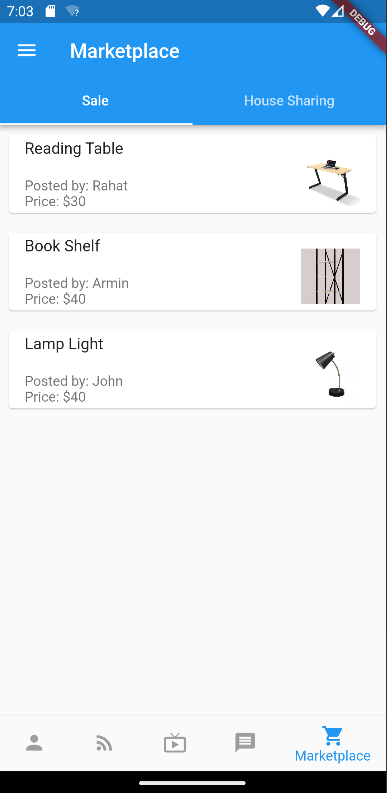
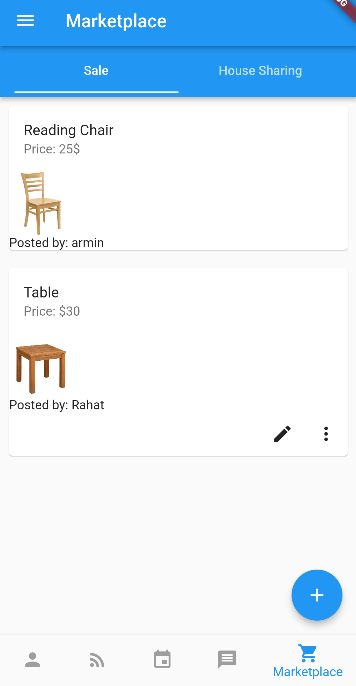
Mock_5_Done

diff --git a/index.html b/index.html
@@ -126,6 +126,7 @@
                 <li><a href="#motivation">Motivation</a></li>
                 <li><a href="#goals">Goals</a></li>
                 <li><a href="#usage">Usage</a></li>
+                <li><a href="#Firebase Intrigation">Firebase Intrigation</a></li>
                 <li><a href="#datamodel">DataModel</a></li>
                 <li><a href="#appstructure">App Strucutre</a></li>
                 <li><a href="#installation">Installation</a></li>
@@ -135,8 +136,8 @@
         </div>
         <div class="recent-updates">
             <h3>Recent Updates !!!</h3>
-            <h5>**Use emails from user_db to login.</h5>
-            <p><b><small> 10/30/2023: The App has been updated following the feature first structure for Flutter apps.</small></b></p>
+            <h5>Firebase intrigation Done!!!</h5>
+            <p><b><small> 11/18/2023: The app uses firebase as database now. Updates for Mock-up 5 has been completed.</small></b></p>
         </div>
     </div>
     <div class="main-content">
@@ -153,28 +154,39 @@
         <ul class="point-list">
             <li>
                 <p><b>Login Page</b></p>
-                <p>This page shows up at the start of the app and allows users to login into the app with their credentials.</p>
+                <p>This page shows up at the start of the app and allows users to login into the app with their credentials. It now uses Firebase for authentication.</p>
                 <img src="signin.png" alt="Image 1">
                 
             </li>
             <li>
-                <p><b>registration page</b></p>
-                <p>This page allows new users to create an account in the app so that they can get connected to their peers in the same courses and groups.</p>
-                <img src="registration.png" alt="Image 2" style="width: 287px; height: 562px;">
+                <p><b>Registration page</b></p>
+                <p>This page allows new users to create an account in the app so that they can get connected to their peers in the same courses and groups. Now all the data used to create an account is placed on Firebase. Email verification has not been added yet to ensure more testing before deployment.</p>
+                <img src="registrationpage.png" alt="Image 2" style="width: 287px; height: 562px;">
                 
             </li>
             <li>
                 <p><b>Profile Page</b></p>
-                <p>This page shows the profile of the user after login including Bio, Courses and Clubs</p>
+                <p>This page shows the profile of the user after login including Bio, Courses student is attending this semester and Clubs they are members of.</p>
                 <img src="Profile.png" alt="Image 2" style="width: 287px; height: 562px;">
                 
             </li>
             <li>
+                <p><b>Courses Description Page</b></p>
+                <p>Clicking on the courses in the profile page now takes student to course description were the description of the course is shown. It also shows the other students taking the course.</p>
+                <img src="CourseDescription.png" alt="Image 2" style="width: 287px; height: 562px;">
+                
+            </li>
+            <li>
+                <p><b>Groups Description Page</b></p>
+                <p>Clicking on the courses in the profile page now takes student to course description were the description of the Group is shown. It also shows the other students who are members of the group.</p>
+                <img src="GroupsDescription.png" alt="Image 2" style="width: 287px; height: 562px;">
+            </li>
+            <li>
                 <p><b>Feed page for Courses</b></p>
                 <p>This page shows feeds posted under courses including updates by instructor and other students.</p>
-                <img src="feed courses.png" alt="Image 2" style="width: 287px; height: 562px;">
+                <img src="Coursefeed.png" alt="Image 2" style="width: 287px; height: 562px;">
                 <p>Feed Posts can now be edited and new posts can be Added.</p>
-                <img src="Feed courses edit.png" alt="Image 2" style="width: 287px; height: 562px;">
+                <img src="Coursefeededit.png" alt="Image 2" style="width: 287px; height: 562px;">
                 <img src="feed edit.png" alt="Image 2" style="width: 287px; height: 562px;">
                 <img src="add feed.png" alt="Image 2" style="width: 287px; height: 562px;">
                 
@@ -191,10 +203,9 @@
             </li>
             <li>
                 <p><b>Marketplace page for Items</b></p>
-                <p>The marketplace page displays listing of items put to sale by different students</p>
+                <p>The marketplace page displays listing of items put to sale by different students.</p>
                 <img src="Marketplace.png" alt="Image 2" style="width: 287px; height: 562px;">
                 <p>Items up for sale in marketplace can now be edited and new items can be Added.</p>
-                <img src="marketplace edit.png" alt="Image 2" style="width: 287px; height: 562px;">
                 <img src="market edit.png" alt="Image 2" style="width: 287px; height: 562px;">
                 <img src="market add.png" alt="Image 2" style="width: 287px; height: 562px;">
                 
@@ -202,24 +213,37 @@
             <li>
                 <p><b>Housesharing</b></p>
                 <p>Housesharing allows students who want to share their rooms and house with other students for rent sharing the option to do so.</p>
-                <img src="House.png" alt="Image 2" style="width: 287px; height: 562px;">
+                <img src="housesharing.png" alt="Image 2" style="width: 287px; height: 562px;">
                 <p>Rooms up for ssharing can now be edited and new rooms can be Added.</p>
-                <img src="houseshare edit.png" alt="Image 2" style="width: 287px; height: 562px;">
                 <img src="house edit.png" alt="Image 2" style="width: 287px; height: 562px;">
                 <img src="house add.png" alt="Image 2" style="width: 287px; height: 562px;">
                 
             </li>
             <li>
-                <p><b>Live Activity</b></p>
-                <p>Students can share what they are doing at the moment (eg. songs, movie, book) with other students through this section.</p>
-                <img src="Live_activity.png" alt="Image 2" style="width: 287px; height: 562px;">
+                <p><b>Events Page</b></p>
+                <p>An Events Page has been created so that Students can post differents events up there for other students to know.</p>
+                <img src="eventspage.png" alt="Image 2" style="width: 287px; height: 562px;">
+                <p>New events can be added to the events page that appear throughout the calendars of all the students. The existing events can be edited and deleted by the events creator only</p>
+                <img src="addeventpage.png" alt="Image 2" style="width: 287px; height: 562px;">
+                <img src="editeventpage.png" alt="Image 2" style="width: 287px; height: 562px;">
             </li>
             <li>
                 <p><b>Messages</b></p>
-                <p>This page allows students to send messages to each other in a secure way</p>
-                <img src="Messages.png" alt="Image 2" style="width: 287px; height: 562px;">
+                <p>The messages section now uses Firebase Realtime Messaging API to send and recive messages. Students can search each other form the search bar and send messages.</p>
+                <img src="searchchat.png" alt="Image 2" style="width: 287px; height: 562px;">
+                <img src="ChatScreen.png" alt="Image 2" style="width: 287px; height: 562px;">
+                <p>Plder Chats also appears in the messages section.</p>
+                <img src="chats.png" alt="Image 2" style="width: 287px; height: 562px;">
+                <img src="Ongoing Chat.png" alt="Image 2" style="width: 287px; height: 562px;">
             </li>
         </ul>
+    </section>
+    <section id="Firebase Intrigation">
+        <h2>Firebase Intrigation</h2>
+        <p>The App has Firebase Intrigation now to ensure data storage and authetication.</p>
+        <img src="Firebase Console.png" style="width: 700px; height: 350px;">
+        <img src="firebase.png" style="width: 700px; height: 350px;">
+    </section>
     </section>
     <section id="appstructure">
         <h2>App Structure</h2>
